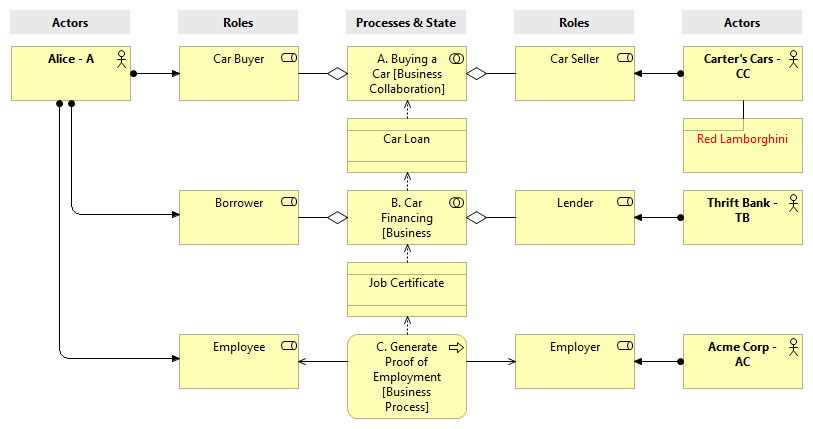
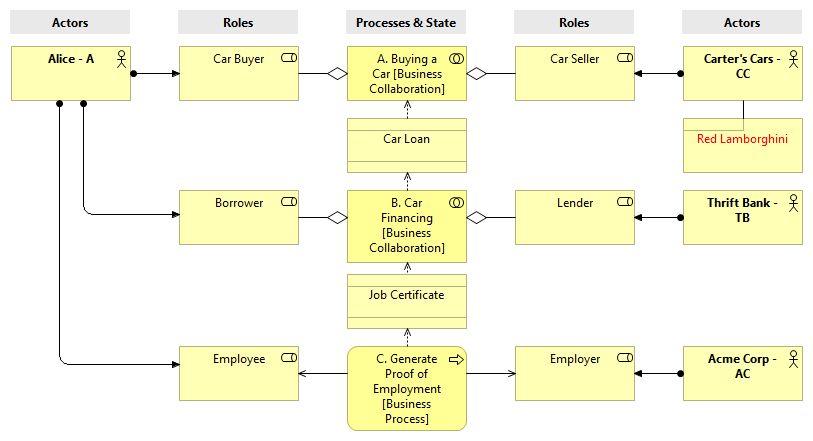
Start of GSG-EA readme.md

diff --git a/python/doc/getting_started-enterpise.md b/python/doc/getting_started-enterpise.md
@@ -28,23 +28,66 @@ The original version of this document was from the
 
 ## The Scenario: Alice Buys a Car
 
-TODO
+### The User Story
+
+The Alice Buys a Car user story is documented in the following 4 use cases:
+
+1. Alice wants to buy a car - a bright red Lamborghini&reg; - from Carter's Cars.
+2. To purchase the car from Carter's Cars, Alice needs to take out a loan from Thrift Bank for the entire purchase price.
+3. To get the loan from Thrift Bank, Alice needs to find a job (Alice is currently unemployed) and present a job certificate from her employer to Thrify Bank certifying her employment, salary level, length of service, etc.
+4. To find a job, Alice applies for as a candidate for a position at Acme Corp. To apply for a job at Acme Corp, Alice needs to include a certified copy of her transcript from Faber College (from where she graduated with her Bachelor's degree).
+
+### Use Case Analysis
+
+#### Use Case 1. Buying a car
+
+_Alice wants to buy a car - a bright red Lamborghini&reg; - from Carter's Cars._
+
+This use case describes the actors, roles, business processes, and artifacts (state) involved in buying a car from Carter's Cars.  The following is a description of the Buying a Car business process ([business collaboration](http://pubs.opengroup.org/architecture/archimate3-doc/chap08.html#_Toc489946044)).
 
 ![Scenario Intro 1](images/0.0&#32;Scenario&#32;Intro&#32;1.png)
 
-TODO
+For Alice to prove that she has the financing necessary to purchase the car, Alice needs to present her car loan credentials to Carter's Cars.
+
+![Scenario Intro 1.5](images/0.0&#32;Scenario&#32;Intro&#32;1.5.png)
+
+#### Use Case 2. Financing the car
+
+_To purchase the car from Carter's Cars, Alice needs to take out a loan from Thrift Bank for the entire purchase price._
+
+This use case describes the actors, roles, business processes, and artifacts (state) involved in financing the car through Thrift Bank. The following is a description the extends the overall process to include the Car Financing business process ([business collaboration](http://pubs.opengroup.org/architecture/archimate3-doc/chap08.html#_Toc489946044)).
 
 ![Scenario Intro 2](images/0.0&#32;Scenario&#32;Intro&#32;2.png)
 
-TODO
+For Alice to qualify for the car loan, Alice needs to find a job (she is currently unemployed) and then present a job certificate certifying her employment, salary level, length of service, etc.
+
+![Scenario Intro 2.5](images/0.0&#32;Scenario&#32;Intro&#32;2.5.png)
+
+#### Use Case 3. Proof of employment
+
+_To get the loan from Thrift Bank, Alice needs to find a job (Alice is currently unemployed) and present a job certificate from her employer to Thrify Bank certifying her employment, salary level, length of service, etc._
+
+This use case describes the actors, roles, business processes, and artifacts (state) involved in Alice proving that she is employed and able to service the car loan. The following is a description the extends the overall process to include the Generate Proof of Employment business process.
 
 ![Scenario Intro 3](images/0.0&#32;Scenario&#32;Intro&#32;3.png)
 
+For Alice to apply for a job at Acme Corp, she needs to obtain a certified copy of her transcript from Faber College (where she graduated from).
+
+![Scenario Intro 3.5](images/0.0&#32;Scenario&#32;Intro&#32;3.5.png)
+
+#### Use Case 4. Finding a job
+
+_To find a job, Alice applies for as a candidate for a position at Acme Corp. To apply for a job at Acme Corp, Alice needs to include a certified copy of her transcript from Faber College (from where she graduated with her Bachelor's degree)._
+
+This use case describes the actors, roles, business processes, and artifacts (state) involved in Alice obtaining a certified copy of her transcript and apply for a job at Acme Corp. The following is a description the extends the overall process to include the:
+- Recruiting and Hiring business process ([business collaboration](http://pubs.opengroup.org/architecture/archimate3-doc/chap08.html#_Toc489946044))
+- Issue transcript business process
+
+![Scenario Intro 4](images/0.0&#32;Scenario&#32;Intro&#32;4.png)
+
+## Tools and Technology
+
 TODO
-
-![Scenario Intro 14](images/0.0&#32;Scenario&#32;Intro&#32;4.png)
-
-## What Indy and Libindy are and Why They Matter
 
 Indy provides a software ecosystem for private, secure, and powerful identity, and libindy enables clients for it. Indy puts people — not the organizations that traditionally centralize identity — in charge of decisions about their own privacy and disclosure. This enables all kinds of rich innovation: connection contracts, revocation, novel payment workflows, asset and document management features, creative forms of escrow, curated reputation, integrations with other cool technologies, and so on.
 
